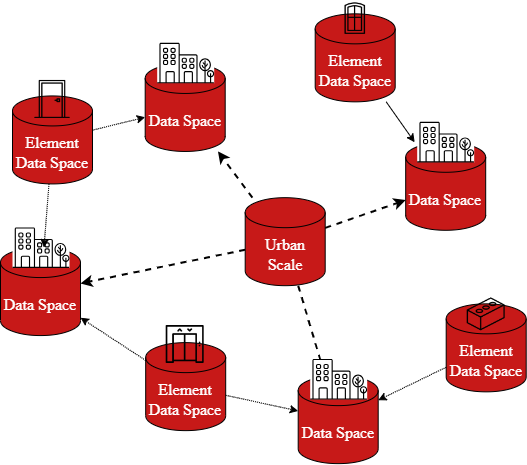
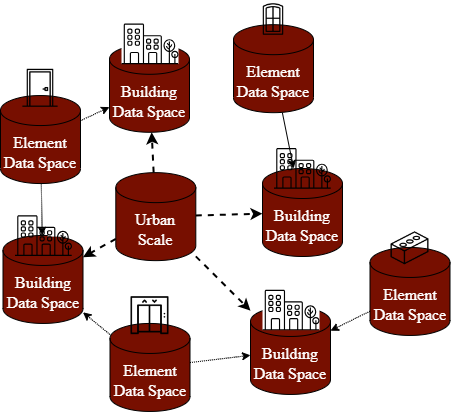
No urban scale

diff --git a/client/src/scenes/UrbanScale/index.jsx b/client/src/scenes/UrbanScale/index.jsx
@@ -59,14 +59,14 @@ const UrbanScale = () => {
   return (
     <Box m="1.5rem 2.5rem" height="100vh" display="flex" flexDirection="column">
       <Header
-        title="Urban Scale"
-        subtitle="This map shows the buildings (ifc files) that are accessible by you."
+        title="Buildings"
+        subtitle="This map shows the buildings (ifc files) that are publicly available. Click on the building to navigate to the specific building data space."
       />
       <Box display="flex" justifyContent="flex-end" mb={2}>
         <RoleBasedButton
           roles={['admin', 'building owner', 'team leader', 'project leader']}
           buttonText="Create New Building"
-          navigateTo="/urbanscale/newbuilding"
+          navigateTo="/buildingdataspace/newbuilding"
         />
       </Box>
       <Box mt={3}>
@@ -81,7 +81,7 @@ const UrbanScale = () => {
           />
         )}
       </Box>
-      <Box flex="1" height="150vh">
+      <Box flex="1" height="100vh">
         <IFCViewer selectedFilepaths={selectedFilePaths} />
       </Box>
     </Box>

diff --git a/client/src/App.js b/client/src/App.js
@@ -51,8 +51,8 @@ function App() {
               <Route path="/home" element={isAuth ? <HomePage /> : <Navigate to="/" />} />
               <Route path="/home/:userId" element={isAuth ? <ProfilePage /> : <Navigate to="/" />} />
               
-              <Route path="/urbanscale/newbuilding" element={isAuth ? <NewBuilding /> : <Navigate to="/" />} />
-              <Route path="/urbanscale" element={isAuth ? <UrbanScale /> : <Navigate to="/" />} />
+              <Route path="/buildingdataspace/newbuilding" element={isAuth ? <NewBuilding /> : <Navigate to="/" />} />
+              <Route path="/buildingdataspace" element={isAuth ? <UrbanScale /> : <Navigate to="/" />} />
               
               <Route path="/buildingdataspace/:buildingDataSpaceID" element={isAuth ? <BuildingDataSpaceID /> : <Navigate to="/" />} />
               <Route path="/buildingdataspace/:buildingDataSpaceID/:fileID" element={isAuth ? <File /> : <Navigate to="/" />} />

diff --git a/client/src/components/DataSpaceTable.jsx b/client/src/components/DataSpaceTable.jsx
@@ -28,7 +28,7 @@ const DataSpaceTable = ({ files, selectedFilepaths, handleFileClick, handleCheck
             <TableCell>Related To Team</TableCell>
             <TableCell>Status of Sharing</TableCell>
             <TableCell>Uploaded At</TableCell>
-            <TableCell>Download</TableCell> {/* New column for downloading files */}
+            <TableCell>View in new tab</TableCell>
           </TableRow>
         </TableHead>
         <TableBody>
@@ -58,7 +58,7 @@ const DataSpaceTable = ({ files, selectedFilepaths, handleFileClick, handleCheck
                   color="primary" 
                   onClick={() => handleDownload(file.filePath)}
                 >
-                  Download
+                  VIEW
                 </Button>
               </TableCell> {/* New cell for the download button */}
             </TableRow>

diff --git a/client/src/components/Sidebar.jsx b/client/src/components/Sidebar.jsx
@@ -78,15 +78,9 @@ const Sidebar = ({
       icon: null,
     },
     {
-      text: "Urban Scale",
-      icon: <MapOutlined />,
-      path: "/urbanscale",
-    },
-    {
       text: "Building Data Space",
       icon: <AccountBalanceOutlined />,
       path: "/buildingdataspace",
-      disabled: true, // Add a 'disabled' property
     },
     {
       text: "Element Data Space",

diff --git a/client/src/components/IFCViewer2.jsx b/client/src/components/IFCViewer2.jsx
@@ -182,7 +182,7 @@ const IFCViewer2 = ({ selectedFilepaths }) => {
         console.log("Highlight event triggered, fragmentIdMap:", fragmentIdMap);
         updatePropertiesTable({ fragmentIdMap });
       });
-
+ 
       highlighter.events.select.onClear.add(() => {
         console.log("Clear event triggered");
         updatePropertiesTable({ fragmentIdMap: {} });

diff --git a/client/src/components/IFCViewer.jsx b/client/src/components/IFCViewer.jsx
@@ -129,7 +129,7 @@ const IFCViewer = ({ selectedFilepaths }) => {
               <bim-button label="Dispose fragments" onclick="window.disposeFragments();"></bim-button>
             </bim-panel-section>
           </bim-panel-section>
-        </bim-panel>
+        </bim-panel> 
       `;
 
       const buttonHTML = `

diff --git a/client/src/components/IFCViewer3.jsx b/client/src/components/IFCViewer3.jsx
@@ -119,7 +119,7 @@ const IFCViewer3 = () => {
           ];
           return attributes;
         },
-      });
+      }); 
 
       attributesTable.expanded = true;
       attributesTable.indentationInText = true;
